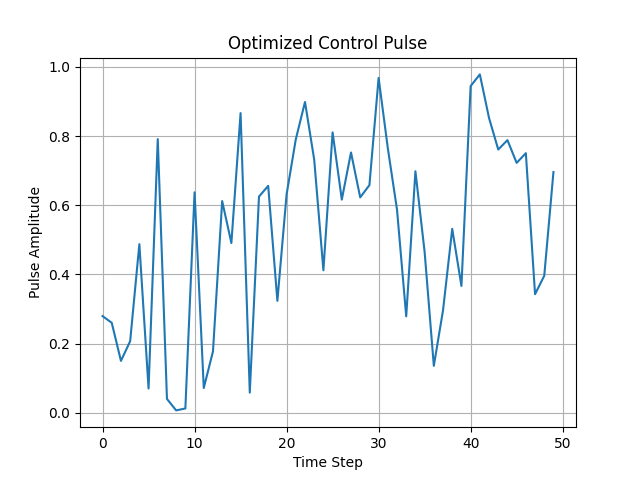
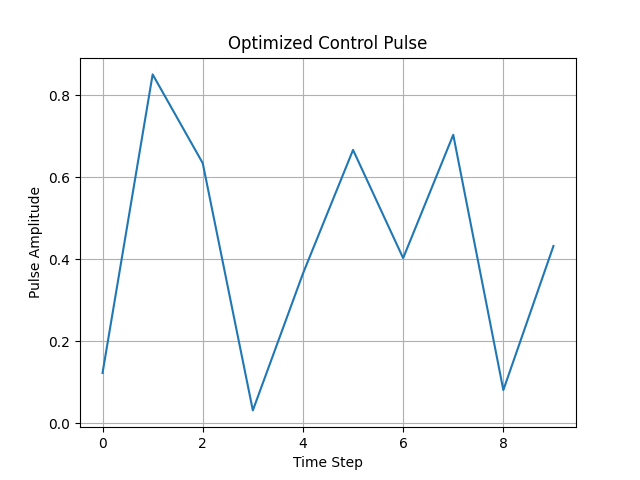
some changes

diff --git a/control/optimal_control.py b/control/optimal_control.py
@@ -21,7 +21,9 @@ def optimize_pulse(noise_ops, target_states):
             H_list.append(H)
         
         result = mesolve(H_list, psi0, tlist, noise_ops, [])
+        # print(f"Results: {result}")
         final_state = result.states[-1]
+        # print(f"final state: {final_state}")
 
         fid = fidelity(final_state, target_states)
         return 1 - fid # minimize
@@ -29,5 +31,7 @@ def optimize_pulse(noise_ops, target_states):
     initial_pulse = np.random.rand(N)
 
     result = minimize(fidelity_cost, initial_pulse, method='Powell')
+
+    # print(f"Optimization Results: {result}")
 
     return result.x

diff --git a/control/plot_fidelity_vs_time.py b/control/plot_fidelity_vs_time.py
@@ -1,0 +1,4 @@
+import matplotlib.pyplot as plt
+import numpy as np
+from qutip import *
+
